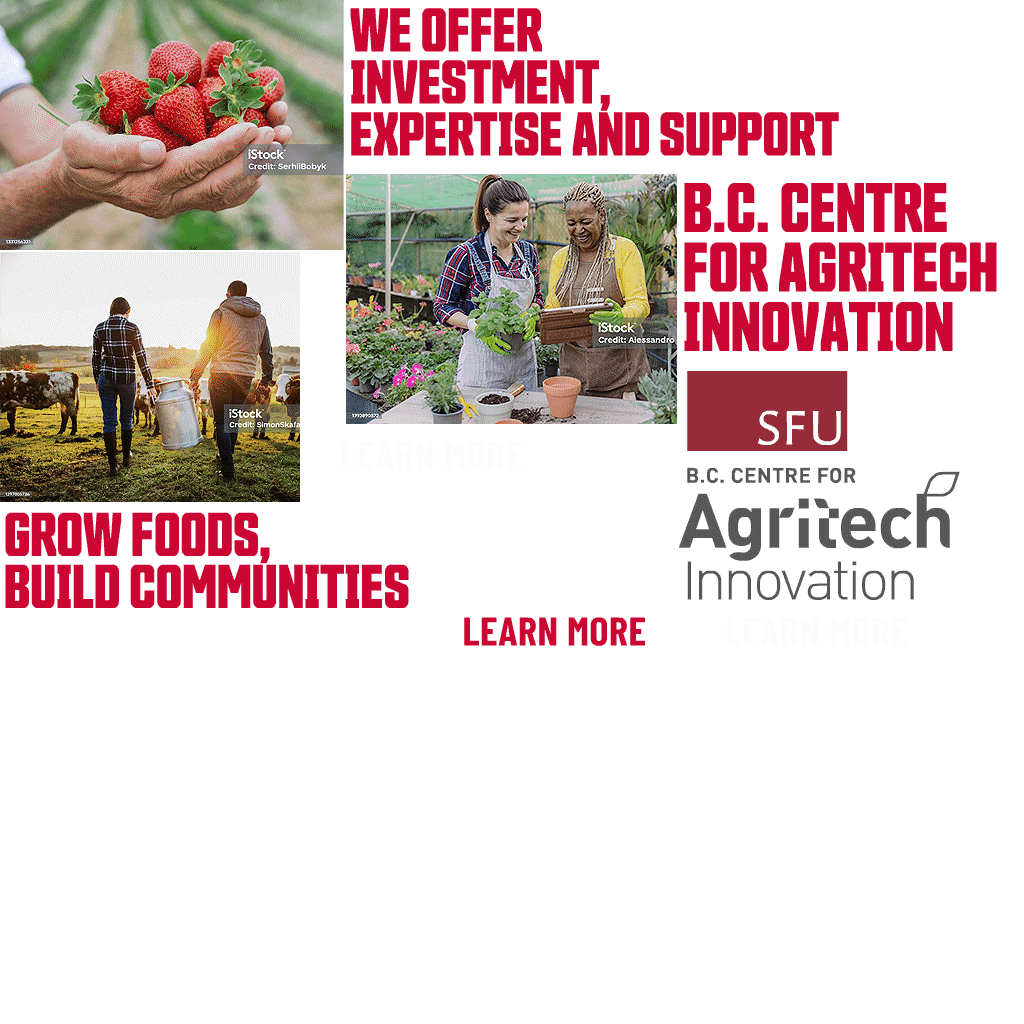
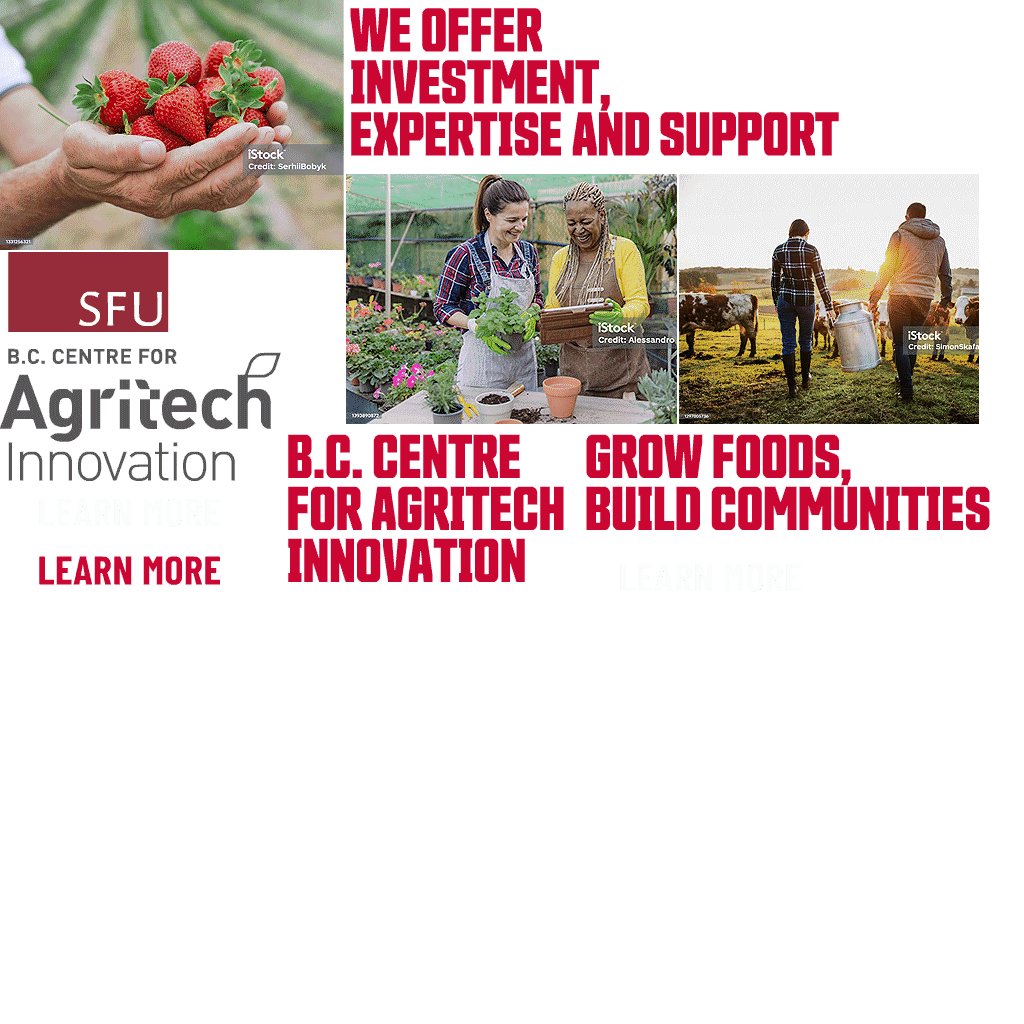
Add files via upload

Changed region(s): [[0.0, 0.0, 1.0, 0.6562]]

diff --git a/BCCAI/Indigenous1_300x250/index.js b/BCCAI/Indigenous1_300x250/index.js
@@ -3,7 +3,7 @@
 var p; // shortcut to reference prototypes
 var lib={};var ss={};var img={};
 lib.ssMetadata = [
-		{name:"index_atlas_1", frames: [[679,174,334,195],[346,0,498,172],[0,504,423,120],[679,371,281,229],[302,426,260,56],[425,602,260,56],[687,602,260,56],[346,174,331,250],[0,0,344,250],[0,252,300,250]]}
+		{name:"index_atlas_1", frames: [[283,426,296,172],[346,0,498,172],[581,426,423,120],[0,252,281,229],[0,483,260,56],[0,541,260,56],[581,548,260,56],[346,174,331,250],[0,0,344,250],[679,174,300,250]]}
 ];
 
 
@@ -117,7 +117,7 @@ if (reversed == null) { reversed = false; }
 	this._renderFirstFrame();
 
 }).prototype = p = new cjs.MovieClip();
-p.nominalBounds = new cjs.Rectangle(0,0,167,97.5);
+p.nominalBounds = new cjs.Rectangle(0,0,148,86);
 
 
 (lib.g_title_2 = function(mode,startPosition,loop,reversed) {
@@ -435,11 +435,11 @@ if (reversed == null) { reversed = false; }
 
 	// Text_3
 	this.instance_2 = new lib.g_title_3("synched",0);
-	this.instance_2.setTransform(-52.45,187.4,1,1,0,0,0,111.3,31.4);
+	this.instance_2.setTransform(-52.45,177.4,1,1,0,0,0,111.3,31.4);
 	this.instance_2._off = true;
 	var instance_2Filter_3 = new cjs.ColorFilter(1,1,1,1,0,0,0,0);
 	this.instance_2.filters = [instance_2Filter_3];
-	this.instance_2.cache(-2,-2,171,102);
+	this.instance_2.cache(-2,-2,152,90);
 
 	var maskedShapeInstanceList = [this.instance_2];
 
@@ -452,84 +452,84 @@ if (reversed == null) { reversed = false; }
 
 	// Text_3_Bg
 	this.shape_20 = new cjs.Shape();
-	this.shape_20.graphics.f("#FFFFFF").s().p("AgNHZIAAuxIAKAAIAAEsIARAAIAAFWIgOAAIAAEvg");
-	this.shape_20.setTransform(-1.125,202.725);
+	this.shape_20.graphics.f("#FFFFFF").s().p("AguGeIAAs7IAMAAIAAEJIBRAAIAAEuIg2AAIAAEEg");
+	this.shape_20.setTransform(-5.25,186.85);
 
 	this.shape_21 = new cjs.Shape();
-	this.shape_21.graphics.f("#FFFFFF").s().p("AhWHZIAAuxICGAAIAAEsIAnAAIAAFWIgiAAIAAEvg");
-	this.shape_21.setTransform(6.45,202.725);
+	this.shape_21.graphics.f("#FFFFFF").s().p("AhsGeIAAs7IB6AAIAAEJIBfAAIAAEuIhEAAIAAEEg");
+	this.shape_21.setTransform(1.825,186.85);
 
 	this.shape_22 = new cjs.Shape();
-	this.shape_22.graphics.f("#FFFFFF").s().p("AicHZIAAuxID+AAIAAEsIA7AAIAAFWIg0AAIAAEvg");
-	this.shape_22.setTransform(13.65,202.725);
+	this.shape_22.graphics.f("#FFFFFF").s().p("AinGeIAAs7IDjAAIAAEJIBsAAIAAEuIhRAAIAAEEg");
+	this.shape_22.setTransform(8.575,186.85);
 
 	this.shape_23 = new cjs.Shape();
-	this.shape_23.graphics.f("#FFFFFF").s().p("AjfHZIAAuxIFvAAIAAEsIBPAAIAAFWIhFAAIAAEvg");
-	this.shape_23.setTransform(20.5,202.725);
+	this.shape_23.graphics.f("#FFFFFF").s().p("AjeGeIAAs7IFGAAIAAEJIB3AAIAAEuIhcAAIAAEEg");
+	this.shape_23.setTransform(14.975,186.85);
 
 	this.shape_24 = new cjs.Shape();
-	this.shape_24.graphics.f("#FFFFFF").s().p("AkdHZIAAuxIHaAAIAAEsIBhAAIAAFWIhWAAIAAEvg");
-	this.shape_24.setTransform(27,202.725);
+	this.shape_24.graphics.f("#FFFFFF").s().p("AkTGeIAAs7IGkAAIAAEJICDAAIAAEuIhnAAIAAEEg");
+	this.shape_24.setTransform(21.025,186.85);
 
 	this.shape_25 = new cjs.Shape();
-	this.shape_25.graphics.f("#FFFFFF").s().p("AlZHZIAAuxIJAAAIAAEsIBzAAIAAFWIhmAAIAAEvg");
-	this.shape_25.setTransform(33.125,202.725);
+	this.shape_25.graphics.f("#FFFFFF").s().p("AlEGeIAAs7IH8AAIAAEJICOAAIAAEuIhyAAIAAEEg");
+	this.shape_25.setTransform(26.75,186.85);
 
 	this.shape_26 = new cjs.Shape();
-	this.shape_26.graphics.f("#FFFFFF").s().p("AmRHZIAAuxIKgAAIAAEsICDAAIAAFWIh1AAIAAEvg");
-	this.shape_26.setTransform(38.875,202.725);
+	this.shape_26.graphics.f("#FFFFFF").s().p("Al0GeIAAs7IJRAAIAAEJICXAAIAAEuIh7AAIAAEEg");
+	this.shape_26.setTransform(32.15,186.85);
 
 	this.shape_27 = new cjs.Shape();
-	this.shape_27.graphics.f("#FFFFFF").s().p("AnFHZIAAuxIL5AAIAAEsICSAAIAAFWIiCAAIAAEvg");
-	this.shape_27.setTransform(44.275,202.725);
+	this.shape_27.graphics.f("#FFFFFF").s().p("AmfGeIAAs7IKfAAIAAEJICgAAIAAEuIiEAAIAAEEg");
+	this.shape_27.setTransform(37.175,186.85);
 
 	this.shape_28 = new cjs.Shape();
-	this.shape_28.graphics.f("#FFFFFF").s().p("An2HZIAAuxINMAAIAAEsIChAAIAAFWIiPAAIAAEvg");
-	this.shape_28.setTransform(49.325,202.725);
+	this.shape_28.graphics.f("#FFFFFF").s().p("AnIGeIAAs7ILoAAIAAEJICpAAIAAEuIiNAAIAAEEg");
+	this.shape_28.setTransform(41.875,186.85);
 
 	this.shape_29 = new cjs.Shape();
-	this.shape_29.graphics.f("#FFFFFF").s().p("AojHZIAAuxIOZAAIAAEsICuAAIAAFWIibAAIAAEvg");
-	this.shape_29.setTransform(54,202.725);
+	this.shape_29.graphics.f("#FFFFFF").s().p("AnuGeIAAs7IMtAAIAAEJICwAAIAAEuIiVAAIAAEEg");
+	this.shape_29.setTransform(46.25,186.85);
 
 	this.shape_30 = new cjs.Shape();
-	this.shape_30.graphics.f("#FFFFFF").s().p("ApNHZIAAuxIPgAAIAAEsIC7AAIAAFWIimAAIAAEvg");
-	this.shape_30.setTransform(58.3,202.725);
+	this.shape_30.graphics.f("#FFFFFF").s().p("AoRGeIAAs7INrAAIAAEJIC4AAIAAEuIicAAIAAEEg");
+	this.shape_30.setTransform(50.275,186.85);
 
 	this.shape_31 = new cjs.Shape();
-	this.shape_31.graphics.f("#FFFFFF").s().p("ApzHZIAAuxIQhAAIAAEsIDGAAIAAFWIiwAAIAAEvg");
-	this.shape_31.setTransform(62.25,202.725);
+	this.shape_31.graphics.f("#FFFFFF").s().p("AoxGeIAAs7IOkAAIAAEJIC/AAIAAEuIijAAIAAEEg");
+	this.shape_31.setTransform(53.975,186.85);
 
 	this.shape_32 = new cjs.Shape();
-	this.shape_32.graphics.f("#FFFFFF").s().p("AqWHZIAAuxIRdAAIAAEsIDQAAIAAFWIi5AAIAAEvg");
-	this.shape_32.setTransform(65.825,202.725);
+	this.shape_32.graphics.f("#FFFFFF").s().p("ApOGeIAAs7IPYAAIAAEJIDFAAIAAEuIipAAIAAEEg");
+	this.shape_32.setTransform(57.325,186.85);
 
 	this.shape_33 = new cjs.Shape();
-	this.shape_33.graphics.f("#FFFFFF").s().p("Aq1HZIAAuxISSAAIAAEsIDZAAIAAFWIjBAAIAAEvg");
-	this.shape_33.setTransform(69.05,202.725);
+	this.shape_33.graphics.f("#FFFFFF").s().p("ApoGeIAAs7IQHAAIAAEJIDKAAIAAEuIiuAAIAAEEg");
+	this.shape_33.setTransform(60.3,186.85);
 
 	this.shape_34 = new cjs.Shape();
-	this.shape_34.graphics.f("#FFFFFF").s().p("ArRHZIAAuxITCAAIAAEsIDhAAIAAFWIjJAAIAAEvg");
-	this.shape_34.setTransform(71.925,202.725);
+	this.shape_34.graphics.f("#FFFFFF").s().p("AqAGeIAAs7IQxAAIAAEJIDQAAIAAEuIi0AAIAAEEg");
+	this.shape_34.setTransform(62.975,186.85);
 
 	this.shape_35 = new cjs.Shape();
-	this.shape_35.graphics.f("#FFFFFF").s().p("ArpHZIAAuxITrAAIAAEsIDoAAIAAFWIjPAAIAAEvg");
-	this.shape_35.setTransform(74.4,202.725);
+	this.shape_35.graphics.f("#FFFFFF").s().p("AqUGeIAAs7IRWAAIAAEJIDTAAIAAEuIi4AAIAAEEg");
+	this.shape_35.setTransform(65.3,186.85);
 
 	this.shape_36 = new cjs.Shape();
-	this.shape_36.graphics.f("#FFFFFF").s().p("Ar+HZIAAuxIUPAAIAAEsIDuAAIAAFWIjUAAIAAEvg");
-	this.shape_36.setTransform(76.525,202.725);
+	this.shape_36.graphics.f("#FFFFFF").s().p("AqlGeIAAs7IR0AAIAAEJIDXAAIAAEuIi8AAIAAEEg");
+	this.shape_36.setTransform(67.325,186.85);
 
 	this.shape_37 = new cjs.Shape();
-	this.shape_37.graphics.f("#FFFFFF").s().p("AsPHZIAAuxIUrAAIAAEsID0AAIAAFWIjZAAIAAEvg");
-	this.shape_37.setTransform(78.325,202.725);
+	this.shape_37.graphics.f("#FFFFFF").s().p("AqzGeIAAs7ISNAAIAAEJIDbAAIAAEuIi/AAIAAEEg");
+	this.shape_37.setTransform(68.95,186.85);
 
 	this.shape_38 = new cjs.Shape();
-	this.shape_38.graphics.f("#FFFFFF").s().p("AsdHZIAAuxIVDAAIAAEsID4AAIAAFWIjdAAIAAEvg");
-	this.shape_38.setTransform(79.7,202.725);
+	this.shape_38.graphics.f("#FFFFFF").s().p("Aq/GeIAAs7ISiAAIAAEJIDdAAIAAEuIjBAAIAAEEg");
+	this.shape_38.setTransform(70.275,186.85);
 
 	this.shape_39 = new cjs.Shape();
-	this.shape_39.graphics.f("#FFFFFF").s().p("AsnHZIAAuxIVVAAIAAEsID5AAIAAFWIjeAAIAAEvg");
-	this.shape_39.setTransform(80.75,202.725);
+	this.shape_39.graphics.f("#FFFFFF").s().p("ArIGeIAAs7ISyAAIAAEJIDeAAIAAEuIjCAAIAAEEg");
+	this.shape_39.setTransform(71.25,186.85);
 
 	var maskedShapeInstanceList = [this.shape_20,this.shape_21,this.shape_22,this.shape_23,this.shape_24,this.shape_25,this.shape_26,this.shape_27,this.shape_28,this.shape_29,this.shape_30,this.shape_31,this.shape_32,this.shape_33,this.shape_34,this.shape_35,this.shape_36,this.shape_37,this.shape_38,this.shape_39];
 
@@ -946,9 +946,9 @@ if (reversed == null) { reversed = false; }
 	this.filterCacheList.push({instance: this.instance_1, startFrame:281, endFrame:294, x:-3, y:-3, w:136, h:38});
 	this.filterCacheList.push({instance: this.instance_1, startFrame:295, endFrame:385, x:-3, y:-3, w:136, h:38});
 	this.filterCacheList.push({instance: this.instance_1, startFrame:385, endFrame:386, x:-3, y:-3, w:136, h:38});
-	this.filterCacheList.push({instance: this.instance_2, startFrame:261, endFrame:261, x:-2, y:-2, w:171, h:102});
-	this.filterCacheList.push({instance: this.instance_2, startFrame:0, endFrame:0, x:-2, y:-2, w:171, h:102});
-	this.filterCacheList.push({instance: this.instance_2, startFrame:262, endFrame:275, x:-2, y:-2, w:171, h:102});
+	this.filterCacheList.push({instance: this.instance_2, startFrame:261, endFrame:261, x:-2, y:-2, w:152, h:90});
+	this.filterCacheList.push({instance: this.instance_2, startFrame:0, endFrame:0, x:-2, y:-2, w:152, h:90});
+	this.filterCacheList.push({instance: this.instance_2, startFrame:262, endFrame:275, x:-2, y:-2, w:152, h:90});
 	this.filterCacheList.push({instance: this.instance_3, startFrame:148, endFrame:148, x:-2, y:-2, w:253, h:90});
 	this.filterCacheList.push({instance: this.instance_3, startFrame:0, endFrame:0, x:-2, y:-2, w:253, h:90});
 	this.filterCacheList.push({instance: this.instance_3, startFrame:149, endFrame:162, x:-2, y:-2, w:253, h:90});
